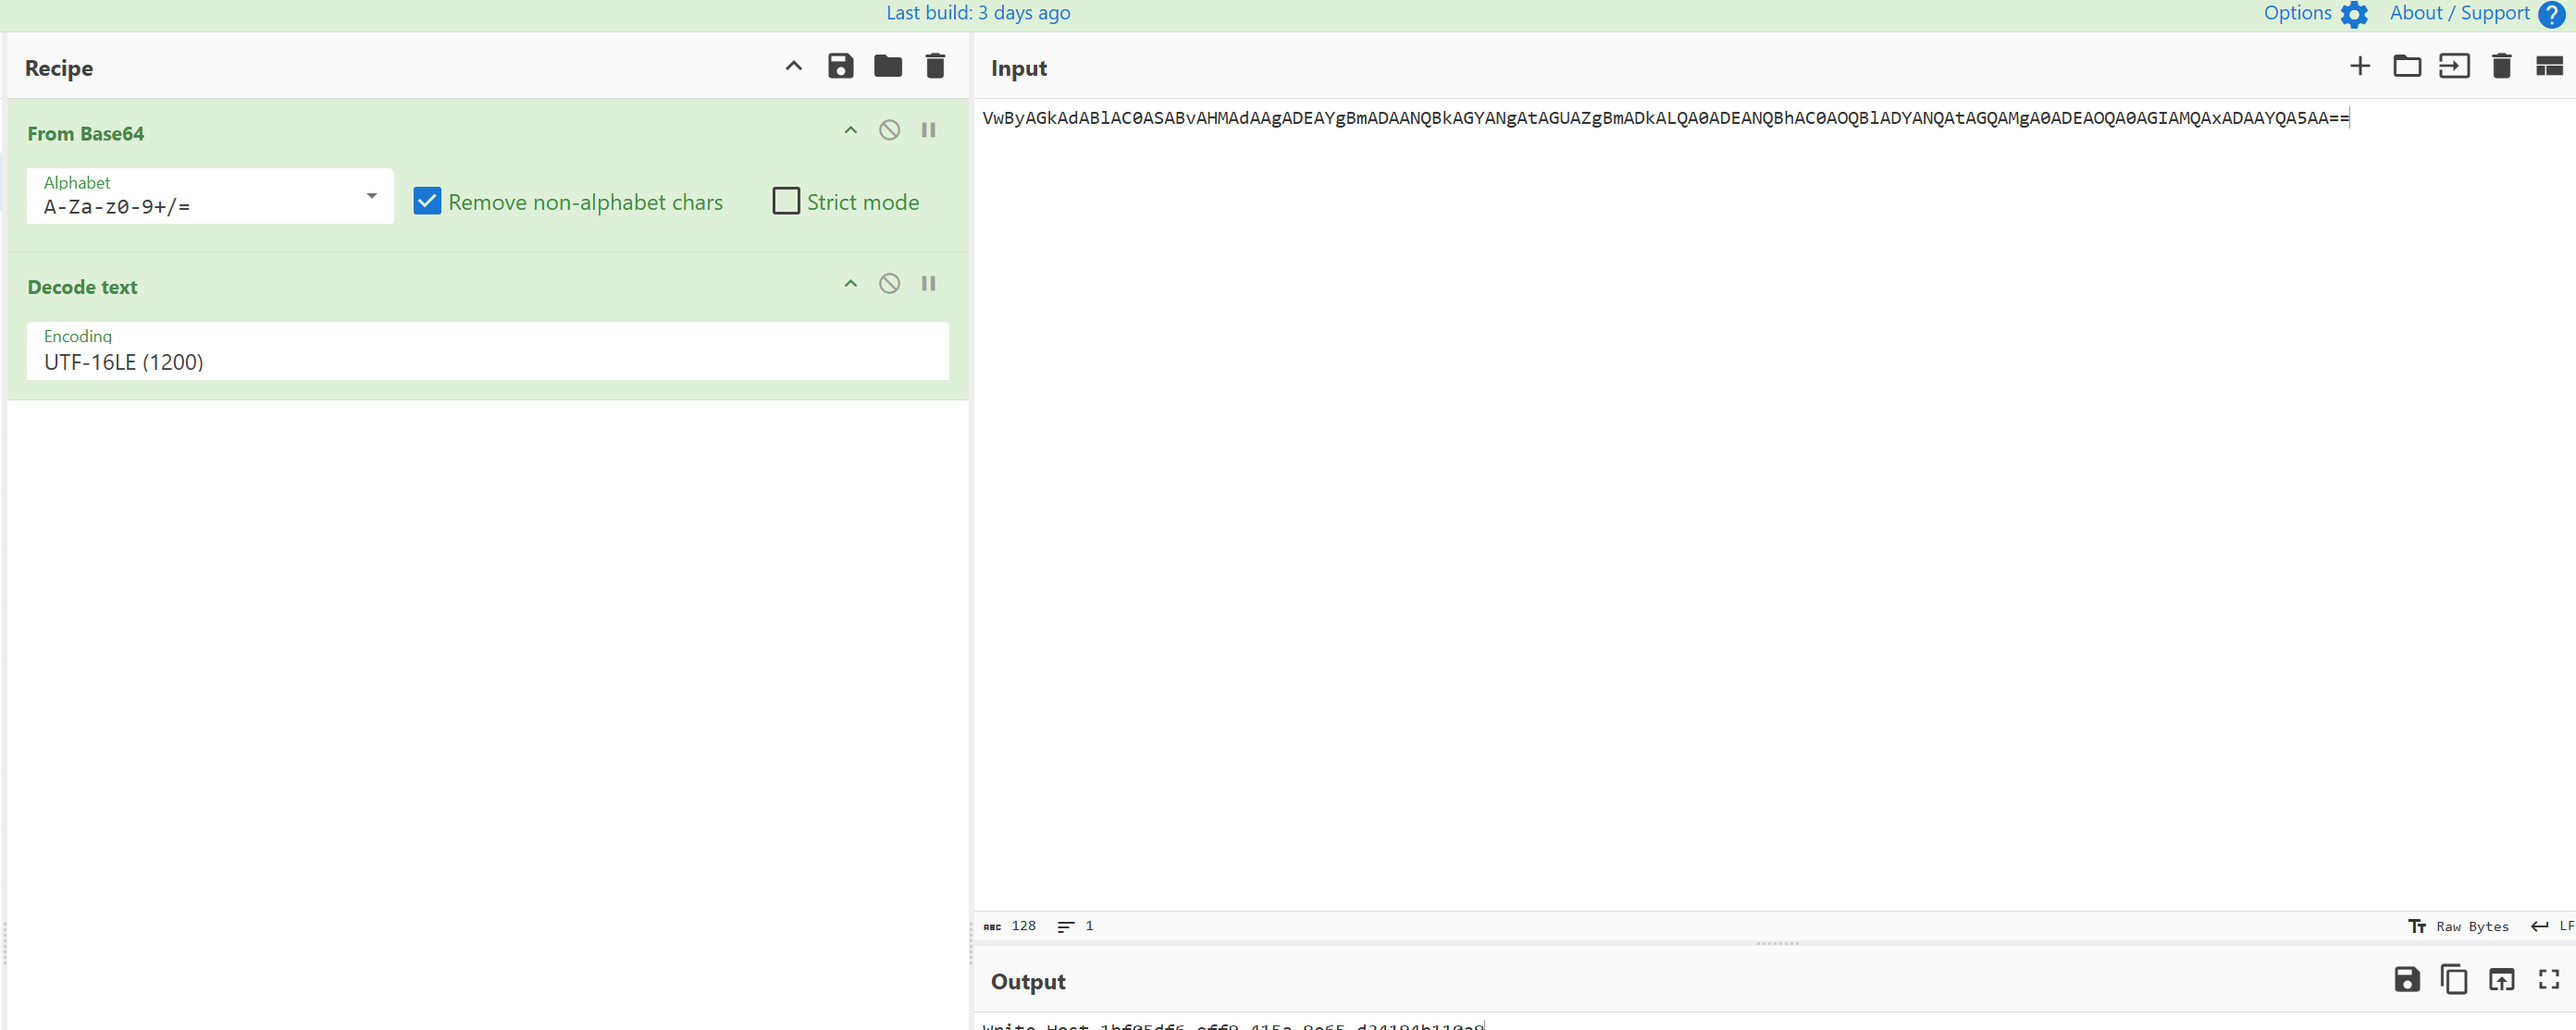
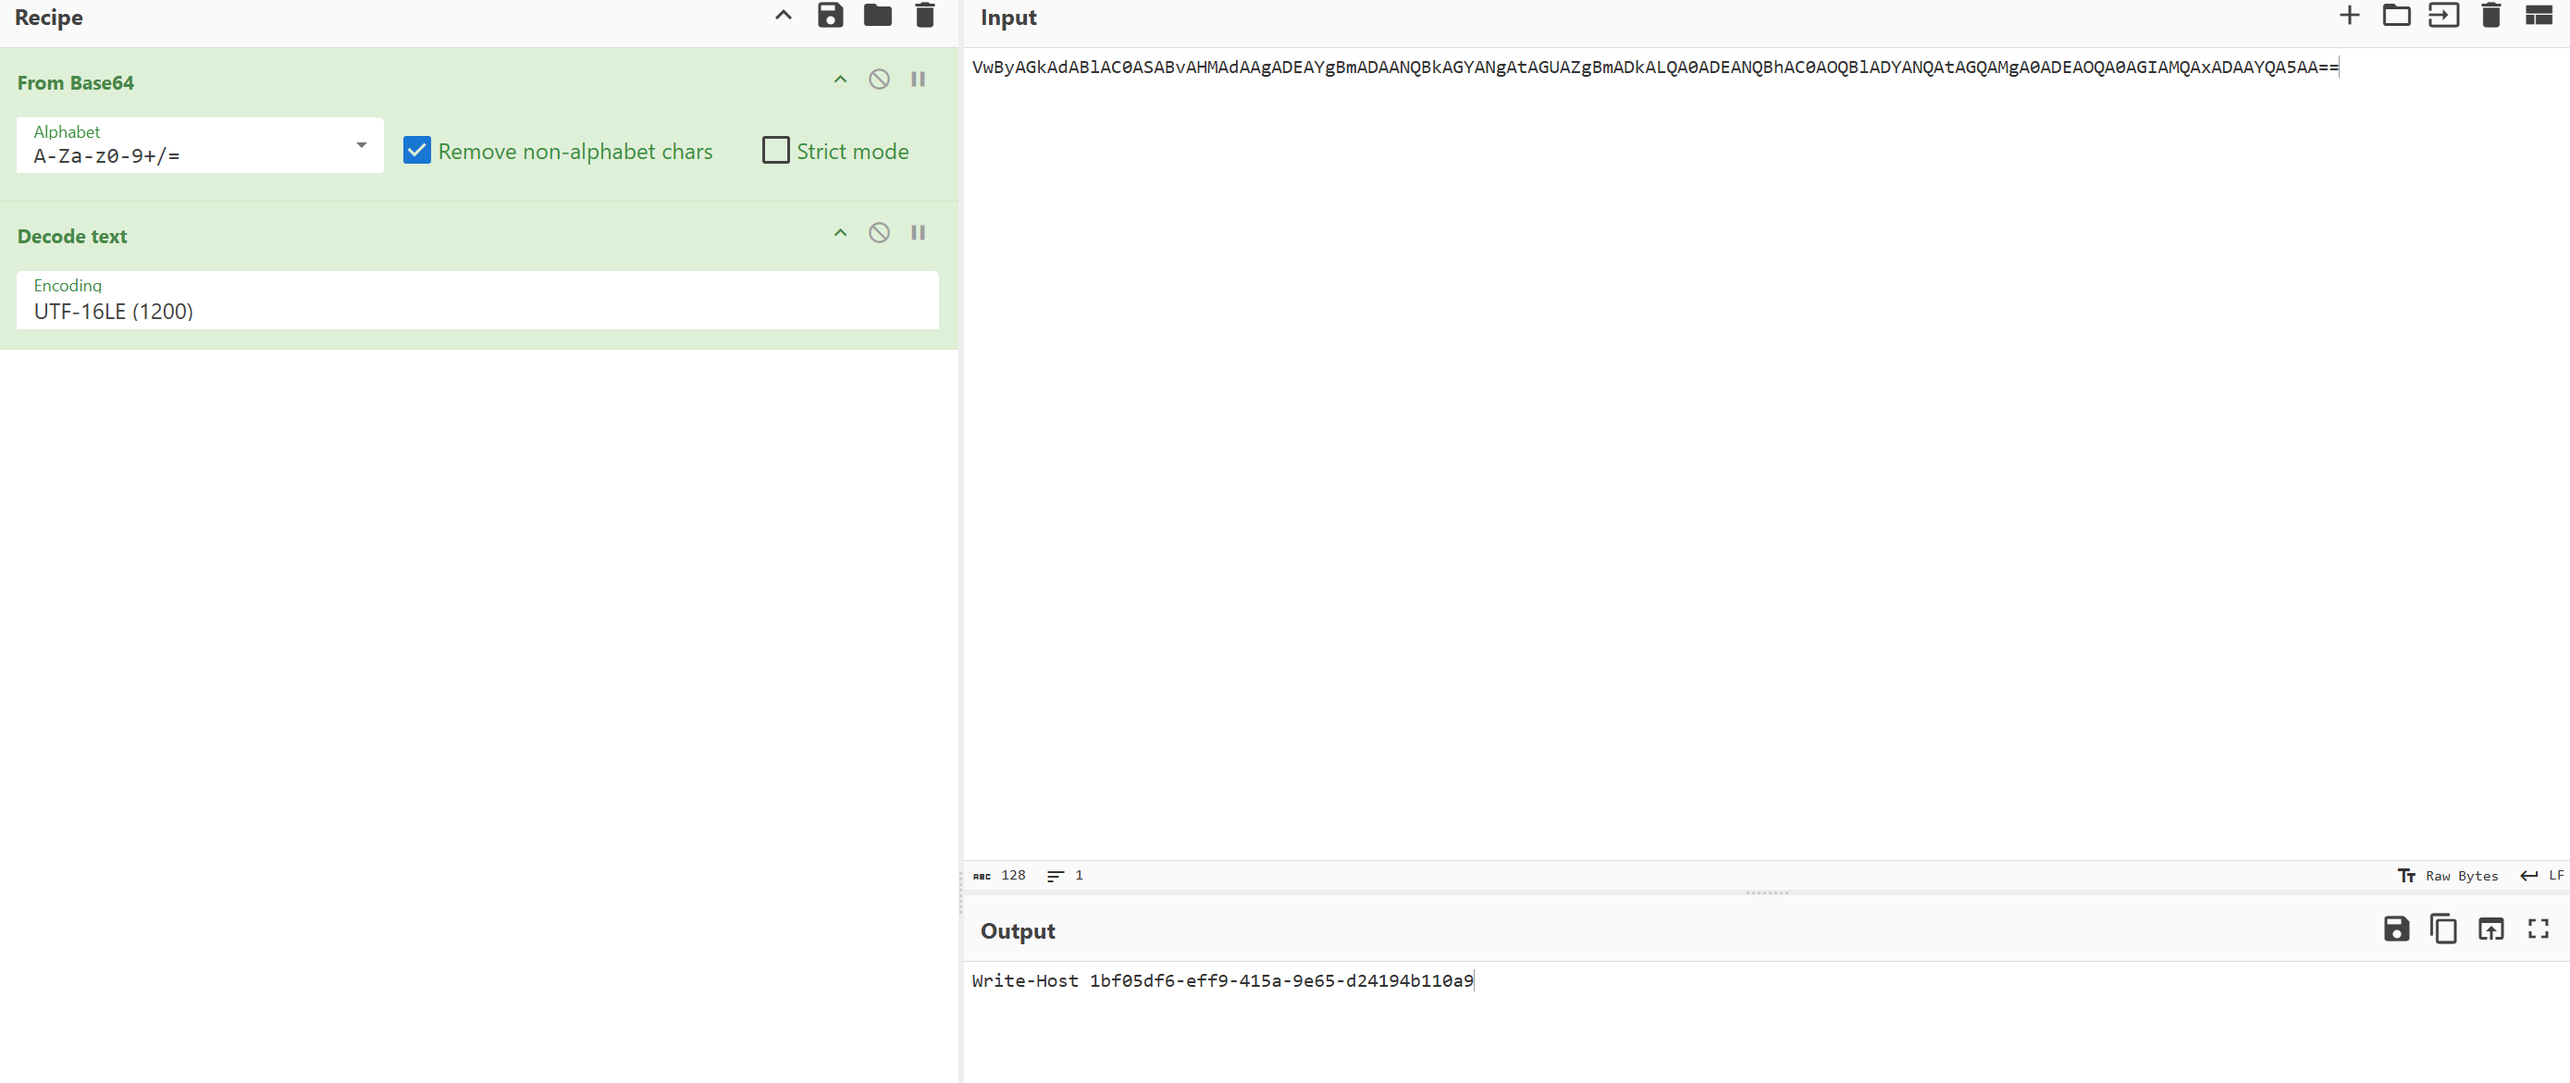
T1059.001 post: tighten text, add 16-row query, swap and crop screenshots
Claude-Session: https://claude.ai/code/session_01WZtHzz8Z3RbFgP76msJRs5

diff --git a/_posts/2026-10-26-atomic-t1059-001-powershell.md b/_posts/2026-10-26-atomic-t1059-001-powershell.md
@@ -8,7 +8,7 @@ excerpt: "Atomic tests 13 and 15 for T1059.001: what MDE alerted on, how I triag
 
 ## What this technique is
 
-Attackers use PowerShell to run commands and scripts on Windows. It is on every machine, and the command can be hidden in a Base64 `-EncodedCommand` argument.
+Attackers use PowerShell to run commands and scripts on Windows, often hiding the command in a Base64 `-EncodedCommand` argument.
 
 **ATT&CK:** [T1059.001](https://attack.mitre.org/techniques/T1059/001/) PowerShell (Execution). Parent: [T1059](https://attack.mitre.org/techniques/T1059/) Command and Scripting Interpreter.
 
@@ -22,12 +22,7 @@ Attackers use PowerShell to run commands and scripts on Windows. It is on every 
 
 ## The test
 
-I ran Atomic tests 13 and 15. Both use Red Canary's AtomicTestHarnesses (ATH) PowerShell module to start a new PowerShell process with a one-line command:
-
-- Test 13 passes the command in plain text with `-C` (`-Command`).
-- Test 15 passes it Base64-encoded with `-E` (`-EncodedCommand`).
-
-In both cases the command is `Write-Host <guid>`. Running the pair shows whether encoding alone changes what Defender does.
+Atomic tests 13 and 15 use Red Canary's AtomicTestHarnesses (ATH) module to start a new PowerShell process that runs `Write-Host <guid>`. Test 13 passes the command in plain text with `-C` (`-Command`). Test 15 passes it Base64-encoded with `-E` (`-EncodedCommand`).
 
 **Reproduce:**
 
@@ -46,16 +41,11 @@ Invoke-AtomicTest T1059.001 -TestNumbers 13,15 -Cleanup
 
 ## Did MDE alert?
 
-Yes. Microsoft Defender for Endpoint (MDE) opened a Medium incident titled "'LsassDumper' detected on one endpoint", with three alerts:
+Yes. Microsoft Defender for Endpoint (MDE) opened one Medium incident with three alerts: two "Suspicious WMI process creation" from EDR, and one "An active 'LsassDumper' hacktool in a PowerShell script was prevented from executing via AMSI" from Antivirus.
 
-| Alert | Source | Cause |
-|---|---|---|
-| Suspicious WMI process creation (x2) | EDR, mapped to T1047 | The PowerShell process from each test was started by WMI |
-| An active 'LsassDumper' hacktool in a PowerShell script was prevented from executing via AMSI | Antivirus | Explained below |
+![Incident 7 in the queue: 'LsassDumper' detected on one endpoint, Medium, with one LsassDumper alert and two Suspicious WMI process creation alerts](/assets/images/atomic-t1059-001/incident-queue.png)
 
-![Incident 7: three alerts, the WMI alert mapped to T1047, and the process tree ending in two powershell.exe processes under WmiPrvSE.exe](/assets/images/atomic-t1059-001/incident-wmi-tree.png)
-
-A test that only prints a GUID has nothing to do with LSASS, so that alert was the first thing I wanted to explain.
+A test that prints a GUID has nothing to do with LSASS, so that alert was the first thing I wanted to explain.
 
 ---
 
@@ -63,13 +53,11 @@ A test that only prints a GUID has nothing to do with LSASS, so that alert was t
 
 ### Where it started
 
-The top of the tree is `explorer.exe` starting `powershell.exe` (PID 12520) at 7:36 AM, which is an interactive shell opened from the desktop. `DeviceLogonEvents` showed a local interactive logon and no RDP or other remote logon before it.
+The process tree starts with `explorer.exe` launching `powershell.exe` (PID 12520) at 7:36 AM, an interactive shell opened from the desktop. `DeviceLogonEvents` showed a local interactive logon and no remote logon before it.
 
-Under that shell, the alert's process tree is a long list of "powershell.exe executed a script" events.
+Under that shell is a long list of "powershell.exe executed a script" events. That was too many to open one by one, so I moved to advanced hunting.
 
 ![The LsassDumper alert's process tree: the test 13 wrapper (PID 11864) followed by a long list of "powershell.exe executed a script" events](/assets/images/atomic-t1059-001/amsi-alert-script-events.png)
-
-Opening each one in the portal would take a long time, so I moved to advanced hunting and pulled every process started in that window.
 
 ### Cutting the noise
 
@@ -82,55 +70,53 @@ DeviceProcessEvents
 | sort by Timestamp asc
 ```
 
-It returned 84 rows.
+![84 items returned](/assets/images/atomic-t1059-001/noise-84-rows.png)
 
-![84 rows, most of them net.exe accounts and auditpol.exe /get](/assets/images/atomic-t1059-001/noise-84-rows.png)
+Most of the 84 rows were `net accounts` (10) and `auditpol /get` (20), which looks like discovery. Their parent was a PowerShell process started by `senseir.exe`, running signed scripts from the Defender `DataCollection` folder. SenseIR is MDE's own automated investigation component, and this burst ran at 9:28 AM, about 45 minutes before the test.
 
-Most of them were `net accounts` (10 times) and `auditpol /get` (20 times). That looks like account and audit policy discovery. The parent says otherwise: a PowerShell process started by `senseir.exe`, running signed scripts from `C:\ProgramData\Microsoft\Windows Defender Advanced Threat Protection\DataCollection\` with `-ExecutionPolicy AllSigned`. SenseIR is MDE's own automated investigation and response component. This burst also ran at 9:28 AM, about 45 minutes before the test.
-
-On the first pass I excluded processes whose parent was `senseir.exe`, and dropped `conhost.exe` and `csc.exe` (the C# compiler that PowerShell's `Add-Type` calls) by name. That gave 48 rows, and every `net` and `auditpol` line was still there. Their parent is the PowerShell that SenseIR started, so `senseir.exe` is the grandparent. Excluding by parent only removes one level of the tree.
-
-On the second pass I also excluded those SenseIR PowerShell PIDs, plus `ipconfig.exe`. That left 16 rows.
-
-![16 rows: the Invoke-AtomicTest calls, the two ATH wrappers, and the two payload processes under wmiprvse.exe](/assets/images/atomic-t1059-001/clean-16-rows.png)
-
-PIDs are fine for one triage session but they change after a reboot. For a saved query, filter on the grandparent instead:
+Excluding `senseir.exe` as the parent, plus `conhost.exe` and `csc.exe`, left 48 rows with every `net` and `auditpol` line still there. `senseir.exe` is their grandparent, not their parent. Excluding the SenseIR PowerShell itself (PID 11284) and `ipconfig.exe` got it down to 16:
 
 ```kql
 DeviceProcessEvents
 | where Timestamp > ago(6h)
 | where DeviceName == "winlab-vm"
+| where InitiatingProcessFileName != "senseir.exe"   // pass 1
+| where FileName !in~ ("conhost.exe","csc.exe")      // pass 1: 48 rows
 | where InitiatingProcessFileName in~ ("powershell.exe","wmiprvse.exe","explorer.exe","cmd.exe")
-| where InitiatingProcessParentFileName !~ "senseir.exe"
-| where FileName !in~ ("conhost.exe","csc.exe","ipconfig.exe")
+| where InitiatingProcessId != 11284                 // pass 2: SenseIR's PowerShell
+| where FileName !~ "ipconfig.exe"                   // pass 2: 16 rows
 | project Timestamp, InitiatingProcessFileName, InitiatingProcessId, FileName, ProcessId, ProcessCommandLine
 | sort by Timestamp asc
 ```
 
+![16 items returned](/assets/images/atomic-t1059-001/clean-16-rows.png)
+
+PIDs change after a reboot. In a saved query, use `InitiatingProcessParentFileName !~ "senseir.exe"` instead of the PID.
+
 ### Reading the 16 rows
 
-In order, the 16 rows are:
+In order:
 
 - `hostname.exe` and `whoami.exe`, which Invoke-AtomicTest runs to log each run
 - two PowerShell processes for the prereq check, which looks for the AtomicTestHarnesses module
 - ATH's `Out-ATHPowerShellCommandLineParameter` wrapper, once per test
 - the two test payloads
 
-The payloads are not children of the shell that ran the test. Their parent is `wmiprvse.exe`. ATH's own help text for `Out-ATHPowerShellCommandLineParameter` says that with `-Execute`, the command line is "spawned with the WMI Win32_Process Create method". That is what the two WMI alerts fired on, and why MDE mapped them to T1047 Windows Management Instrumentation. Malware uses WMI the same way to break the link between its script and the process it starts.
+The payloads' parent is `wmiprvse.exe`, not the shell that ran the test. ATH's help text for `Out-ATHPowerShellCommandLineParameter` says `-Execute` starts the command "with the WMI Win32_Process Create method". That is what the two WMI alerts fired on, and MDE maps them to T1047 Windows Management Instrumentation. Malware does the same to break the link between its script and the new process.
 
 ### Decoding test 15
 
-In CyberChef I used `From Base64`, then `Decode text` with UTF-16LE (1200). PowerShell expects `-EncodedCommand` to be UTF-16LE, so `From Base64` alone leaves a null byte after every character.
+In CyberChef: `From Base64`, then `Decode text` with UTF-16LE (1200), because `-EncodedCommand` is UTF-16LE.
 
 ![CyberChef recipe From Base64 plus Decode text UTF-16LE, output Write-Host 1bf05df6-eff9-415a-9e65-d24194b110a9](/assets/images/atomic-t1059-001/cyberchef-decoded.png)
 
-The result is `Write-Host 1bf05df6-eff9-415a-9e65-d24194b110a9`, the same as test 13 apart from the GUID. MDE raised the same WMI alert for both tests, so the encoding made no difference to the verdict.
+It is the same `Write-Host` as test 13 with a different GUID. MDE raised the same WMI alert for both tests, so encoding didn't change the verdict.
 
 ---
 
 ## The LsassDumper alert
 
-None of the 16 processes touched LSASS, so the process table didn't explain the third alert. Its title ends with "prevented from executing via AMSI", so I read up on AMSI. Microsoft describes the Antimalware Scan Interface as an API that lets applications pass content to the installed antivirus for scanning, and since PowerShell 5.1 every script block PowerShell runs is passed to it. That means this alert came from scanning script content, not from a process starting, so I looked in `DeviceEvents` instead:
+None of the 16 processes touched LSASS. The alert title ends with "prevented from executing via AMSI", so I looked up AMSI. Microsoft describes it as an API that passes content to the antivirus for scanning, and PowerShell 5.1 and later sends every script block to it. So this was a scan of script content, not a process, and I searched `DeviceEvents`:
 
 ```kql
 DeviceEvents
@@ -143,11 +129,11 @@ DeviceEvents
 
 ![Six AntivirusDetection rows for HackTool:PowerShell/LsassDumper.A!amsi, two naming the file DumpLSASS.ps1](/assets/images/atomic-t1059-001/amsi-dumplsass.png)
 
-Six `AntivirusDetection` rows, all `HackTool:PowerShell/LsassDumper.A!amsi`, and two of them name a file: `DumpLSASS.ps1`.
+All six rows are `HackTool:PowerShell/LsassDumper.A!amsi`, and two name a file: `DumpLSASS.ps1`.
 
-I searched for that file name and found it in Red Canary's AtomicTestHarnesses repository, the module both tests use: `Windows/TestHarnesses/T1003.001_DumpLSASS/DumpLSASS.ps1`, which defines `Invoke-ATHDumpLSASS`. The module's `.psm1` loads every script in its `TestHarnesses` folder when it is imported. So running a PowerShell test also loaded ATH's LSASS dump code, PowerShell passed it to AMSI, and Defender blocked it on the signature. Several other harness scripts compile C# with `Add-Type` when they load, which is where the `csc.exe` processes came from.
+Searching that file name led to the AtomicTestHarnesses repo, where `Windows/TestHarnesses/T1003.001_DumpLSASS/DumpLSASS.ps1` defines `Invoke-ATHDumpLSASS`. ATH loads every script in its `TestHarnesses` folder on import, so the PowerShell tests loaded the LSASS dump code too, and AMSI blocked it. Several other harness scripts compile C# with `Add-Type` on load, which is where the `csc.exe` processes came from.
 
-To make sure the dump code never ran, I checked for access to `lsass.exe` and for dump files:
+To check that the dump code never ran:
 
 ```kql
 DeviceEvents
@@ -166,15 +152,13 @@ DeviceFileEvents
 | where FileName endswith ".dmp" or FileName has "lsass"
 ```
 
-Both came back empty.
-
-So the alert name is accurate about what Defender matched: LSASS dump code in a PowerShell script. It doesn't mean anything was dumped. The code came in with the test module and was blocked before it ran.
+Both came back empty. The alert name describes what Defender matched, LSASS dump code in a script. Nothing was dumped.
 
 ---
 
 ## Detection
 
-MDE caught this on its own. I wanted a detection that doesn't depend on the tool or a signature, so I wrote one for the behavior behind the two WMI alerts: a script interpreter started by WMI.
+MDE caught this on its own. My version targets the behavior behind the WMI alerts, whatever tool is used: a script interpreter started by WMI.
 
 ```kql
 DeviceProcessEvents
@@ -187,26 +171,25 @@ DeviceProcessEvents
 
 ![The detection returning the two payload processes from tests 13 and 15](/assets/images/atomic-t1059-001/detection-wmi-parent.png)
 
-It returned the two test payloads. It covers PowerShell (T1059.001) when it is started through WMI ([T1047](https://attack.mitre.org/techniques/T1047/)), which is how both tests ran.
+It returned the two test payloads. It covers PowerShell (T1059.001) started through WMI ([T1047](https://attack.mitre.org/techniques/T1047/)).
 
 ---
 
 ## Tuning
 
-- SCCM/ConfigMgr, monitoring agents and remote management scripts also start processes over WMI. Allowlist them by service account or known command line, not by device.
-- `contains "wmi"` also matches other parents with "wmi" in the name, such as `wmic.exe`. For a scheduled rule I'd use `=~ "wmiprvse.exe"` so it only matches the WMI provider host.
-- For an alert rule, add a command-line condition (encoded command, download cradle, hidden window) to keep the volume down.
-- Don't key on "PowerShell ran" alone. Searching for the `Write-Host` payloads without the parent filter also returned PowerShell started by `compattelrunner.exe` (Windows compatibility telemetry).
+- SCCM/ConfigMgr, monitoring agents and remote management scripts also start processes over WMI. Allowlist them by service account or command line.
+- `contains "wmi"` also matches names like `wmic.exe`. For a scheduled rule, use `=~ "wmiprvse.exe"`.
+- Add a command-line condition (encoded command, download cradle, hidden window) to cut the volume.
 
-This works because tests 13 and 15 put the payload on the command line. With `-File script.ps1` or `IEX` on a downloaded script, the command line shows very little and the real code is in the script block. Advanced hunting doesn't keep full script text (the `PowerShellCommand` events in `DeviceEvents` only record command names). For that you need Script Block Logging (event 4104) sent to Sentinel.
+This only works when the payload is on the command line. With `-File` or `IEX` on a downloaded script, the code is in the script block, and advanced hunting doesn't store full script text. For that you need Script Block Logging (event 4104) in Sentinel.
 
 ---
 
 ## Takeaways
 
-The incident title pointed at credential theft, and the raw process list looked like discovery. Neither was what happened. Both times the answer was in a single field: the grandparent of `net.exe`, and the file name in the AMSI event.
+The incident title pointed at credential theft and the raw process list looked like discovery. Neither was what happened, and both times one field gave it away: the grandparent of `net.exe`, and the file name in the AMSI event.
 
-When you exclude noise, exclude the whole subtree. Filtering on the parent alone left 30 lines of MDE's own activity in my results.
+When excluding noise, exclude the whole subtree. Filtering on the parent alone left 30 rows of MDE's own activity.
 
 ---
 
